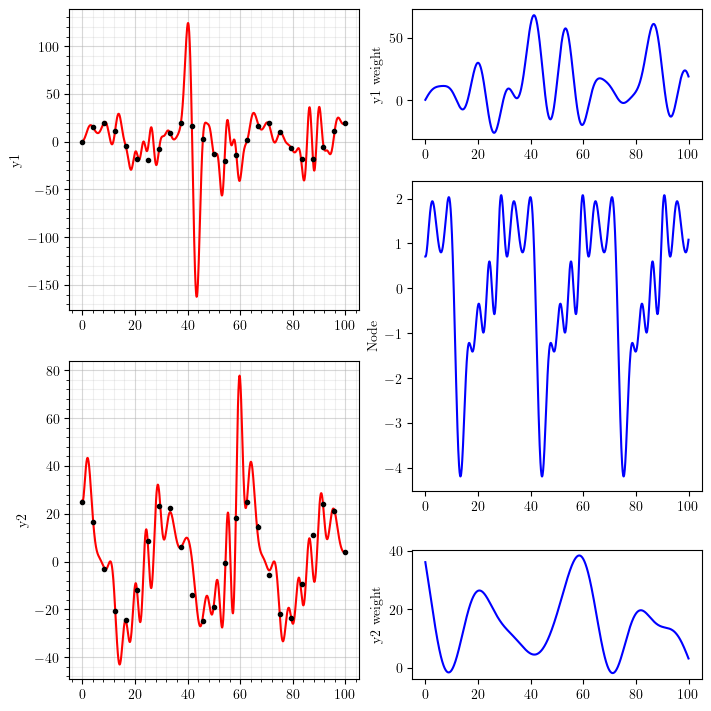
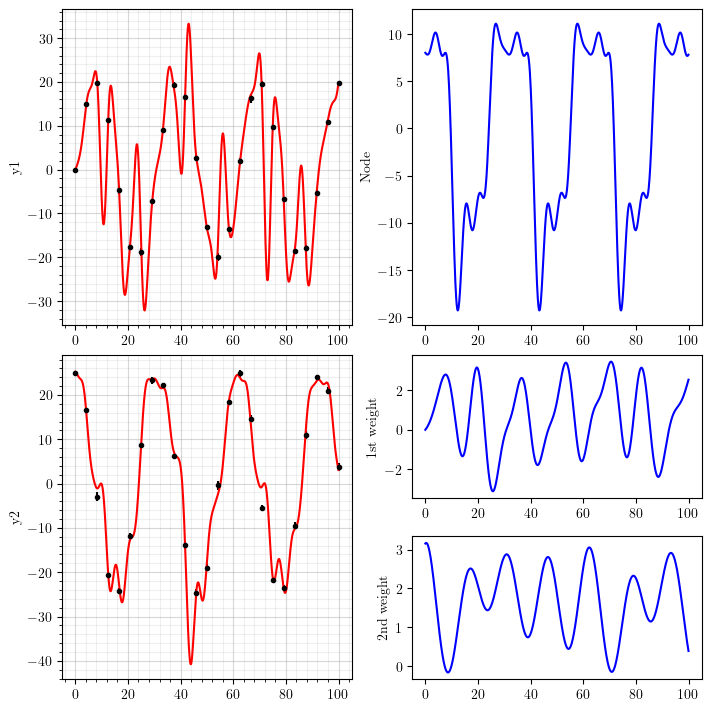
examples

diff --git a/gpyrn/Example/example_3.py b/gpyrn/Example/example_3.py
@@ -7,6 +7,7 @@ matplotlib.rcParams.update({
     'pgf.rcfonts': False})
 import matplotlib.pylab as plt
 plt.close('all')
+from matplotlib.ticker import AutoMinorLocator
 
 from gprn import meanField as meanfield
 from gprn import covFunction as covfunc
@@ -15,30 +16,71 @@ from gprn import meanFunction as meanfunc
 time = np.linspace(0, 100, 25)
 y1 = 20*np.sin(2*np.pi*time / 31)
 y1err = np.random.rand(25)
+y2 = 25*np.sin(2*np.pi*time / 31 + 0.5*np.pi)
+y2err = np.random.rand(25)
 
 plt.figure()
 plt.errorbar(time, y1, y1err, fmt='ob', markersize=7, label='y1')
+plt.errorbar(time, y2, y2err, fmt='or', markersize=7, label='y2')
 plt.xlabel('Time (days)')
 plt.ylabel('Measurements')
 plt.legend(loc='upper right', facecolor='white', framealpha=1, edgecolor='black')
 plt.grid(which='major', alpha=0.5)
-# plt.savefig('data2.png', bbox_inches='tight')
-# plt.close('all')
+plt.savefig('data3.png', bbox_inches='tight')
 
-gprn = meanfield.inference(2, time, y1, y1err)
+gprn = meanfield.inference(2, time, y1, y1err, y2, y2err)
 
-nodes = [covfunc.Periodic(1, 11, 0.5),  covfunc.SquaredExponential(0.1, 10)]
-weight = [covfunc.SquaredExponential(20, 5), covfunc.SquaredExponential(0.1, 1)]
-means = [meanfunc.Constant(0)]
-jitter = [0.5]
+nodes = [covfunc.Periodic(1, 31, 0.5),  covfunc.Matern52(1, 100)]
+weight = [covfunc.SquaredExponential(20, 5), covfunc.SquaredExponential(0.1, 10),
+          covfunc.SquaredExponential(10, 5), covfunc.SquaredExponential(1, 10)]
+means = [meanfunc.Constant(0), meanfunc.Constant(0)]
+jitter = [0.5, 0.5]
 
 elbo, m, v = gprn.ELBOcalc(nodes, weight, means, jitter, iterations=5000, mu='init', var='init')
 print('ELBO =', elbo)
 
 tstar = np.linspace(time.min(), time.max(), 1000)
-a, b, c = gprn.newPrediction(nodes, weight, means, jitter, tstar, m, v)
-# aa, bb, cc = gprn.Prediction(nodes, weight, means, jitter, tstar, m, v, 
-#                               separate=True)
-plt.figure()
-plt.plot(time, y1,'o')
-plt.plot(tstar, a,'-')
+a, _, _, b = gprn.newPrediction(nodes, weight, means, jitter, tstar, m, v,
+                             separate=True)
+
+fig = plt.figure(constrained_layout=True, figsize=(7, 10))
+axs = fig.subplot_mosaic( [['predictive 1', 'node 1'],
+                           ['predictive 1', 'node 2'],
+                           ['predictive 1', 'weight 1'],
+                           ['predictive 2', 'weight 2'],
+                           ['predictive 2', 'weight 3'],
+                           ['predictive 2', 'weight 4'],],)
+
+axs['predictive 1'].set(xlabel='', ylabel='y1')
+axs['predictive 1'].errorbar(time, y1, y1err, fmt= '.k')
+axs['predictive 1'].plot(tstar, a[:,0].T, '-r')
+axs['predictive 1'].xaxis.set_minor_locator(AutoMinorLocator(5))
+axs['predictive 1'].yaxis.set_minor_locator(AutoMinorLocator(5))
+axs['predictive 1'].grid(which='major', alpha=0.5)
+axs['predictive 1'].grid(which='minor', alpha=0.2)
+
+axs['predictive 2'].set(xlabel='', ylabel='y2')
+axs['predictive 2'].errorbar(time, y2, y2err, fmt= '.k')
+axs['predictive 2'].plot(tstar, a[:,1].T, '-r')
+axs['predictive 2'].xaxis.set_minor_locator(AutoMinorLocator(5))
+axs['predictive 2'].yaxis.set_minor_locator(AutoMinorLocator(5))
+axs['predictive 2'].grid(which='major', alpha=0.5)
+axs['predictive 2'].grid(which='minor', alpha=0.2)
+
+axs['node 1'].set(xlabel='', ylabel='1st Node')
+axs['node 1'].plot(tstar, b[0][0].T, '-b')
+axs['node 2'].set(xlabel='', ylabel='2nd Node')
+axs['node 2'].plot(tstar, b[0][1].T, '-b')
+axs['weight 1'].set(xlabel='', ylabel='1st weight')
+axs['weight 1'].plot(tstar, b[1][0].T, '-b')
+axs['weight 2'].set(xlabel='', ylabel='2nd weight')
+axs['weight 2'].plot(tstar, b[1][1].T, '-b')
+
+axs['weight 3'].set(xlabel='', ylabel='3rd weight')
+axs['weight 3'].plot(tstar, b[1][2].T, '-b')
+axs['weight 4'].set(xlabel='', ylabel='4th weight')
+axs['weight 4'].plot(tstar, b[1][3].T, '-b')
+
+
+fig.savefig('componentsPlots2.png', bbox_inches='tight')
+# plt.close('all')

diff --git a/gpyrn/Example/example_2.py b/gpyrn/Example/example_2.py
@@ -36,10 +36,10 @@ plt.close('all')
 ############## 2 datasets 
 gprn = meanfield.inference(1, time, y1, y1err, y2, y2err)
 
-nodes = [covfunc.Periodic(1, 31, 0.5)]
-weight = [covfunc.SquaredExponential(20, 5), covfunc.SquaredExponential(25, 10)]
+nodes = [covfunc.Periodic(5, 31, 0.5)]
+weight = [covfunc.SquaredExponential(5, 5), covfunc.SquaredExponential(10, 10)]
 means = [meanfunc.Constant(0), meanfunc.Constant(0)]
-jitter = [0.5, 0.25]
+jitter = [0.5, 0.5]
 
 elbo, m, v = gprn.ELBOcalc(nodes, weight, means, jitter, 
                            iterations=5000, mu='init', var='init')
@@ -50,9 +50,9 @@ tstar = np.linspace(time.min(), time.max(), 1000)
 a, _, _, bb = gprn.Prediction(nodes, weight, means, jitter, tstar, m, v, separate=True)
 
 fig = plt.figure(constrained_layout=True, figsize=(7, 7))
-axs = fig.subplot_mosaic( [['predictive 1', 'weight 1'],
+axs = fig.subplot_mosaic( [['predictive 1', 'node'],
                            ['predictive 1', 'node'],
-                           ['predictive 2', 'node'],
+                           ['predictive 2', 'weight 1'],
                            ['predictive 2', 'weight 2'],],)
 
 axs['predictive 1'].set(xlabel='', ylabel='y1')
@@ -71,13 +71,13 @@ axs['predictive 2'].yaxis.set_minor_locator(AutoMinorLocator(5))
 axs['predictive 2'].grid(which='major', alpha=0.5)
 axs['predictive 2'].grid(which='minor', alpha=0.2)
 
-axs['weight 1'].set(xlabel='', ylabel='y1 weight')
+axs['weight 1'].set(xlabel='', ylabel='1st weight')
 axs['weight 1'].plot(tstar, bb[1][0].T, '-b')
 
 axs['node'].set(xlabel='', ylabel='Node')
 axs['node'].plot(tstar, bb[0].T, '-b')
 
-axs['weight 2'].set(xlabel='', ylabel='y2 weight')
+axs['weight 2'].set(xlabel='', ylabel='2nd weight')
 axs['weight 2'].plot(tstar, bb[1][1].T, '-b')
 
 fig.savefig('componentsPlots.png', bbox_inches='tight')
